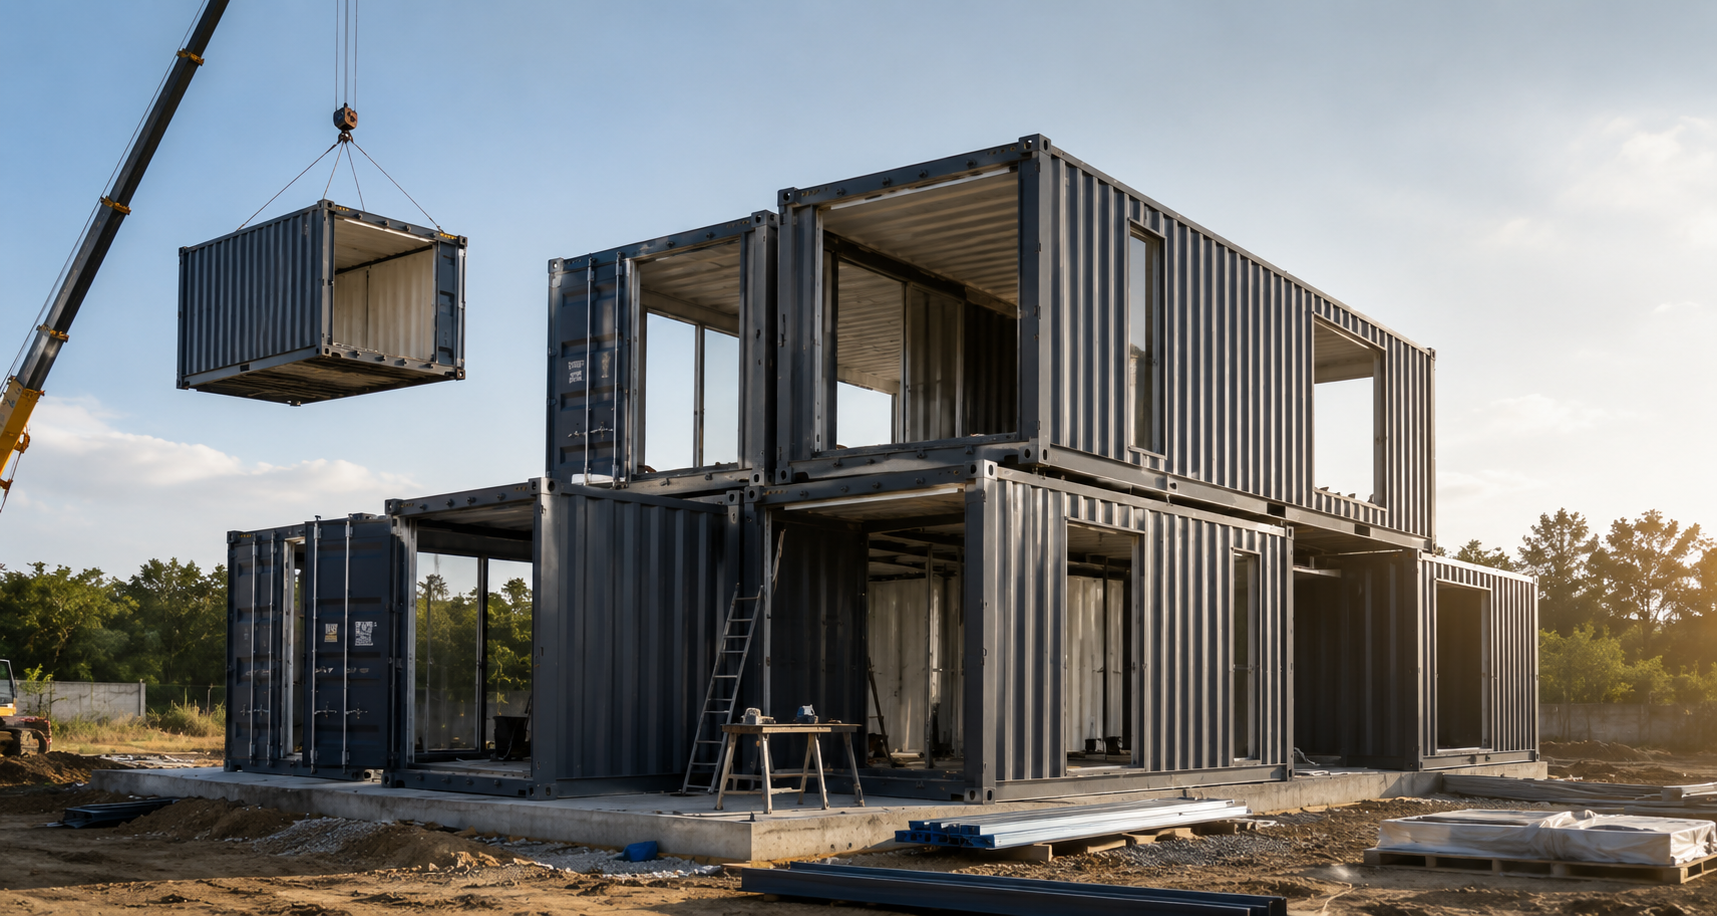
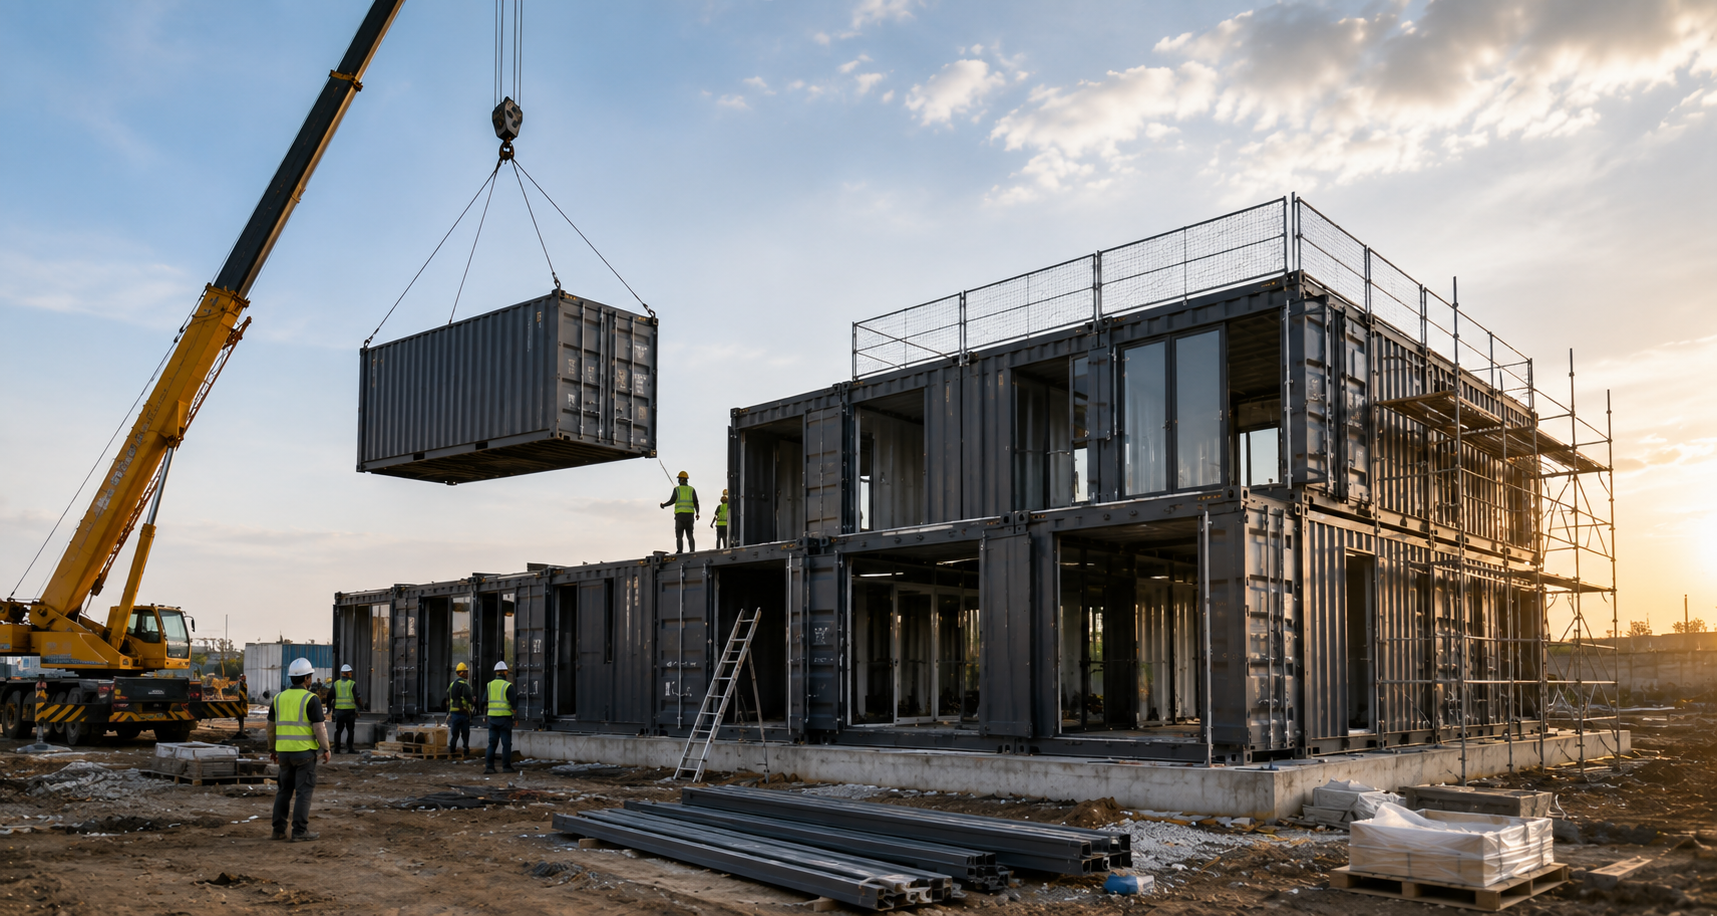
dssd

diff --git a/tracker.html b/tracker.html
@@ -29,7 +29,7 @@
     <link rel="stylesheet" href="assets/css/magnific-popup.min.css">
     <link rel="stylesheet" href="assets/css/slick.min.css">
     <link rel="stylesheet" href="assets/css/nice-select.min.css">
-    <link rel="stylesheet" href="assets/css/style.css">
+    <link rel="stylesheet" href="assets/css/style.css?v=1.1">
 </head>
 
 <body>
@@ -162,7 +162,7 @@
     <!--==============================
     Breadcumb Area
     ============================== -->
-    <div class="breadcumb-wrapper" data-bg-src="assets/img/bg/tracker-bg.png">
+    <div class="breadcumb-wrapper" data-bg-src="assets/img/bg/tracker-bg.png?v=1.1">
         <div class="section-animation-shape1-1 shape-mockup animation-infinite" data-top="0" data-bg-src="assets/img/shape/global-line-shape1.png"></div>
         <div class="container">
             <div class="row">

diff --git a/tracker.php b/tracker.php
@@ -13,7 +13,7 @@
     <!--==============================
     Breadcumb Area
     ============================== -->
-    <div class="breadcumb-wrapper" data-bg-src="assets/img/bg/tracker-bg.png" style="background-color: #15161c; padding: 100px 0; position: relative;">
+    <div class="breadcumb-wrapper" data-bg-src="assets/img/bg/tracker-bg.png?v=1.1" style="background-color: #15161c; padding: 100px 0; position: relative;">
         <div class="container">
             <div class="row">
                 <div class="col-lg-12">

diff --git a/partials/head.php b/partials/head.php
@@ -39,5 +39,5 @@ require_once __DIR__ . '/../config/bootstrap.php';
     <!-- Nice Select -->
     <link rel="stylesheet" href="assets/css/nice-select.min.css">
     <!-- Theme Custom CSS -->
-    <link rel="stylesheet" href="assets/css/style.css">
+    <link rel="stylesheet" href="assets/css/style.css?v=1.1">
 </head>
